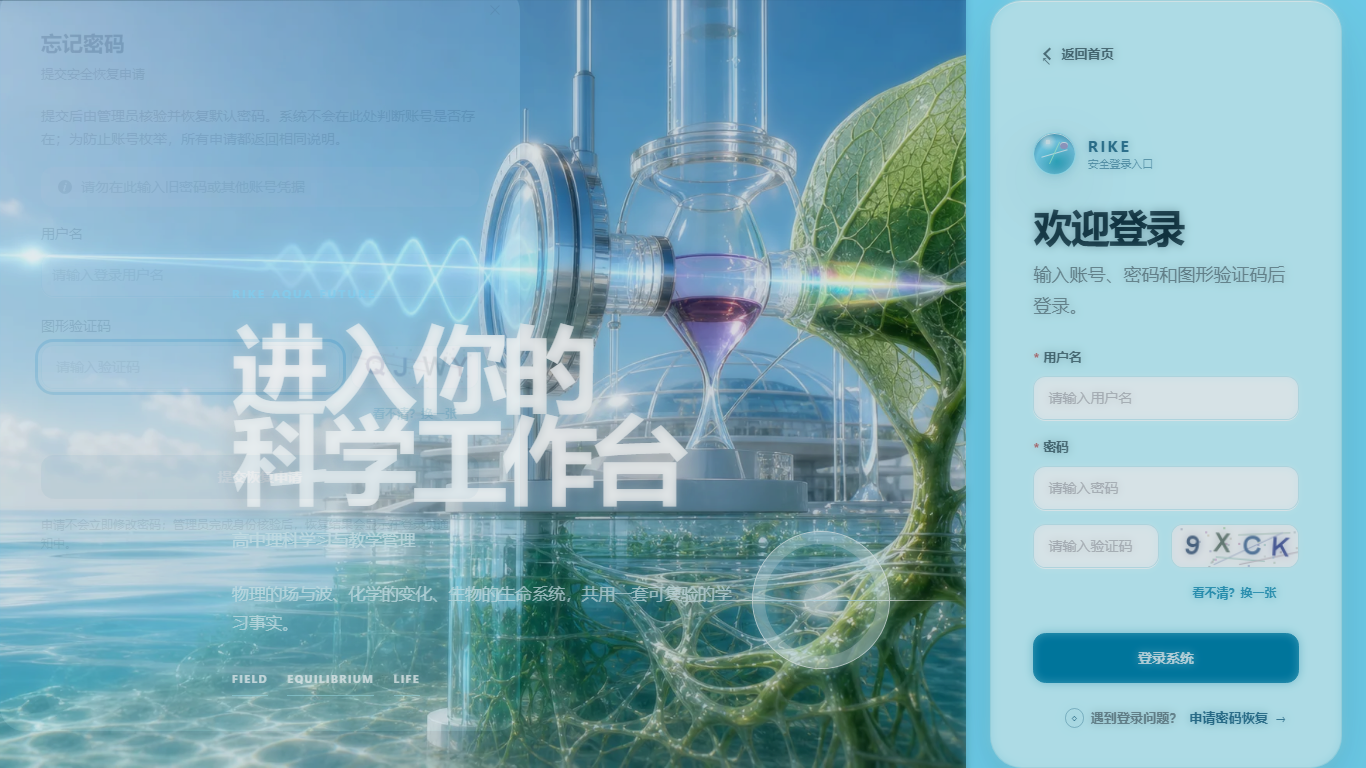
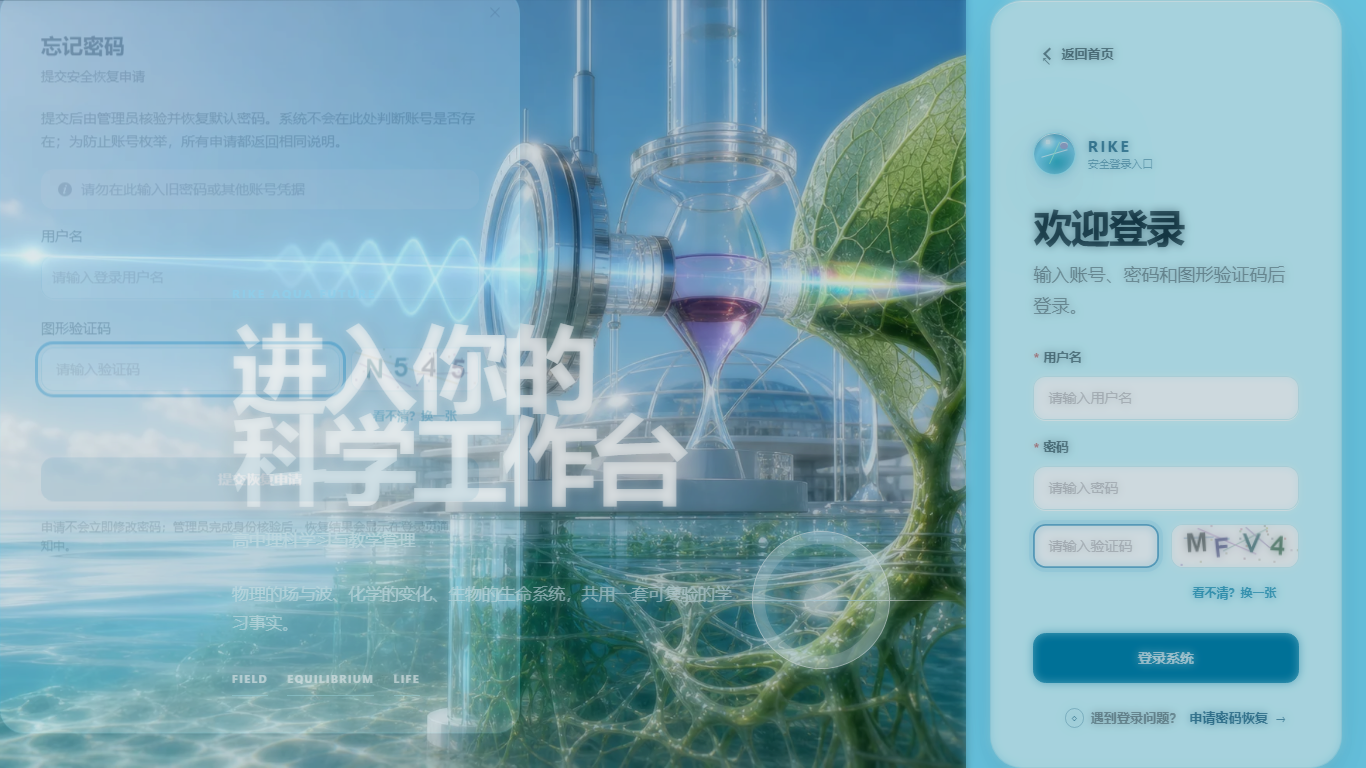
test: replace shallow PR 33 browser assertions

diff --git a/docs/evidence/pr33-final-browser/README.md b/docs/evidence/pr33-final-browser/README.md
@@ -4,10 +4,14 @@
 
 ## 浏览器
 
-- [`browser-results-v29.json`](browser-results-v29.json)：14 条新增路线和交互，0 console error、0 page error、0 unexpected failed request、0 horizontal overflow、0 missing assertion。
+- [`browser-results-v29.json`](browser-results-v29.json)：14 条真实路由、20 项交互断言，0 console error、0 page error、0 unexpected failed request、0 horizontal overflow、0 missing assertion、0 assertion failure。
 - [`../thesis-final/browser-results-pr33.json`](../thesis-final/browser-results-pr33.json)：17 条基础路线。两组共 31 条。
 - 消息场景通过真实 Demo API 验证居中确认、发送者撤回后双方占位、仅本人删除后对方仍可见。
-- 199 班试卷可见、200 班列表为空，专题单元显示 3 道题；密码恢复覆盖 1440×900 与 390×844。
+- 错题本真实执行 ACTIVE 筛选、详情、单题再做、软归档和 MASTERED 回查；不是只打开路由。
+- 专题单元详情和页面都验证 2–3 道题，逐题请求可访问；专项集成测试另验证跨班私有题和 DRAFT 不泄露。
+- 199 班试卷真实作答并提交，结果页用真实 `AnswerDisplay` 展示人类可读答案与 STANDARD；200 班列表为空且直接访问返回 404。
+- 物理教师读取真实班级统计和学生画像；同一学生的化学/生物趋势不进入结果，化学教师访问物理发布画像返回 404。
+- 知识卡片真实执行收藏状态更新；密码恢复覆盖 1366×768 与 390×844。
 - 09/10 变式截图是明确披露的确定性 UI 夹具，仅验证结构化作答和判分界面；真实 DeepSeek 未调用。
 
 ## 性能
